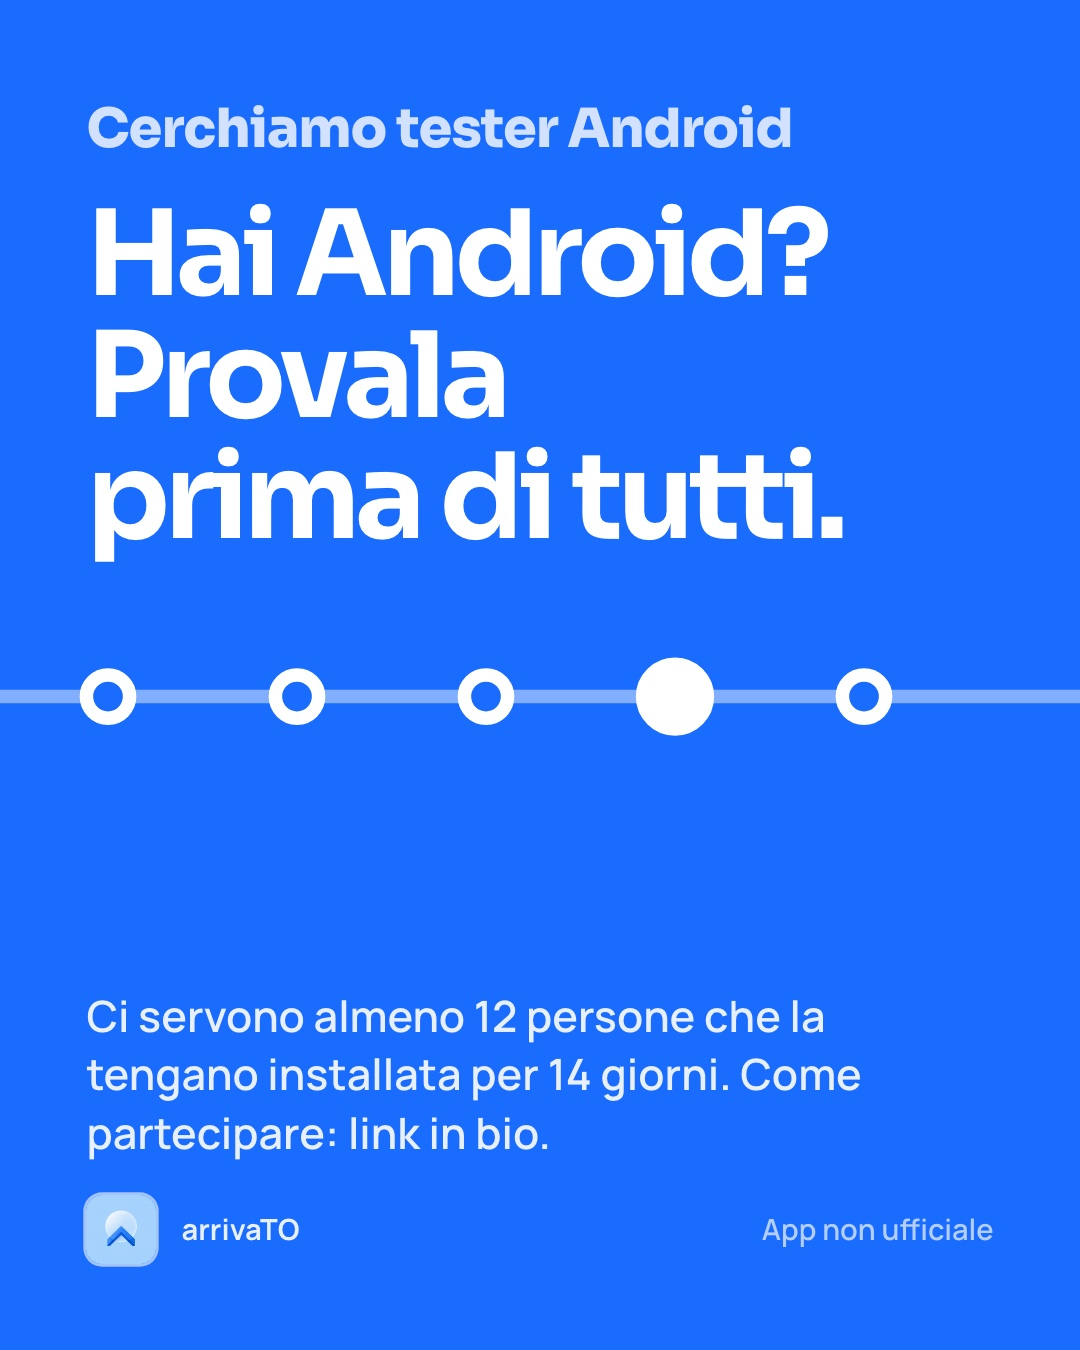
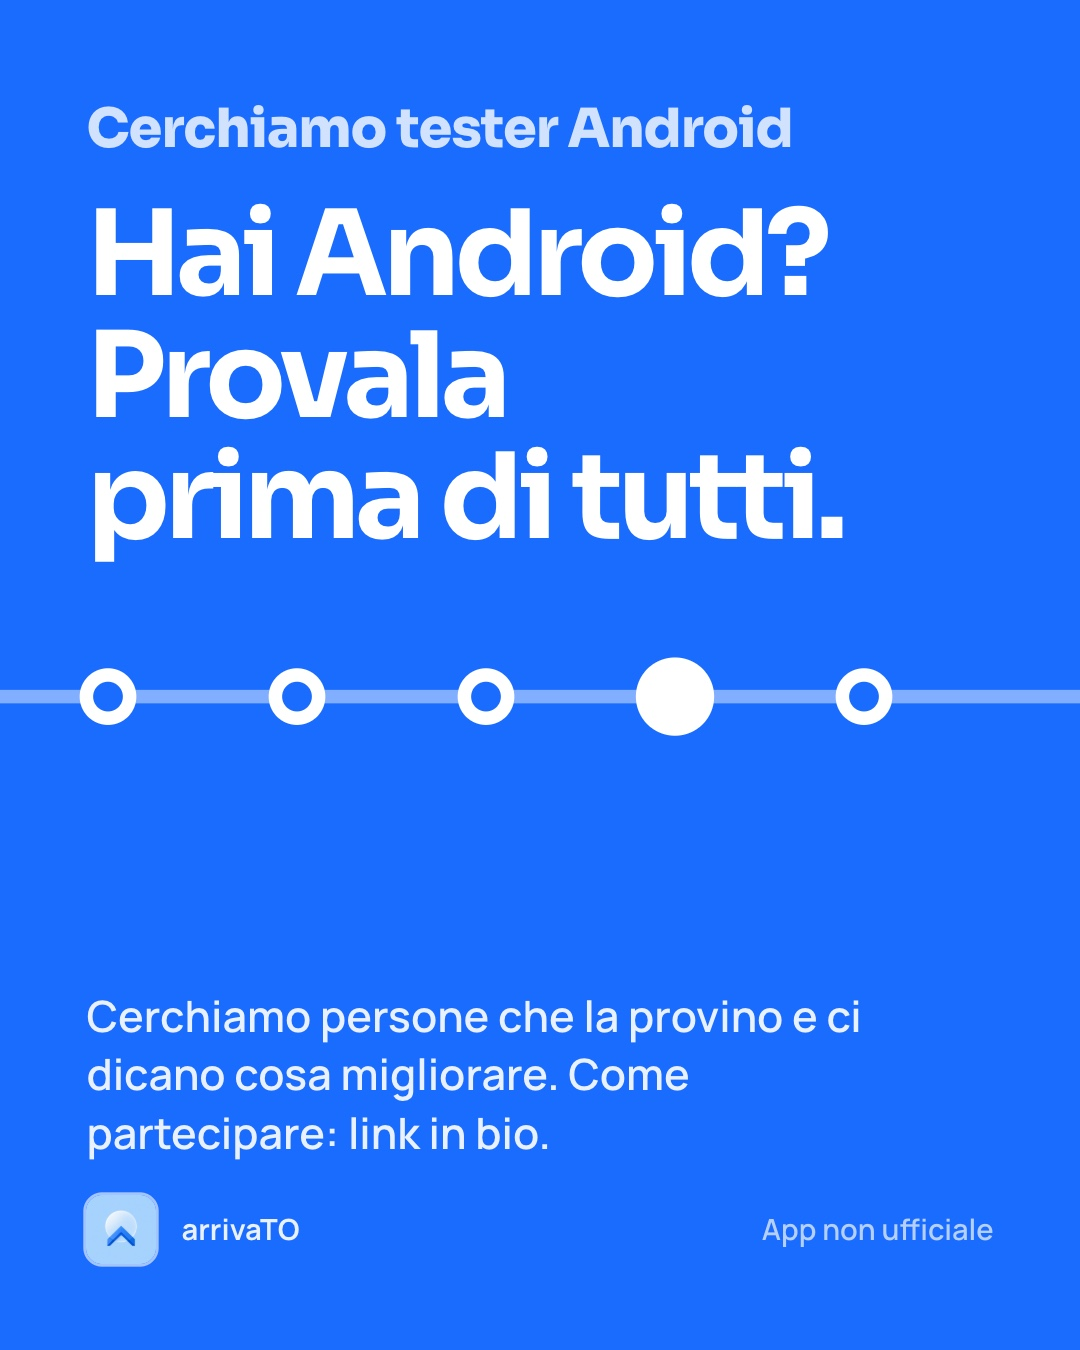
Android: cerchiamo tester senza indicare quanti, post 04 aggiornato
Tolti i riferimenti a 12 tester e 14 giorni da sito, post e storia 04.
Post 18/12 approvato (testo senza numeri). Pulito alt text del post ATP.

Changed region(s): [[0.0611, 0.7156, 0.7944, 0.84]]

diff --git a/android.html b/android.html
@@ -4,7 +4,7 @@
   <meta charset="utf-8">
   <meta name="viewport" content="width=device-width, initial-scale=1">
   <title>arrivaTO per Android – Cerchiamo tester</title>
-  <meta name="description" content="arrivaTO per Android è in test su Google Play: cerchiamo persone che la provino per 14 giorni. Gratis, senza pubblicità, senza account.">
+  <meta name="description" content="arrivaTO per Android è in test su Google Play: cerchiamo persone che la provino. Gratis, senza pubblicità, senza account.">
   <link rel="canonical" href="https://flbanca.github.io/arrivato-app/android.html">
   <link rel="icon" href="icon.png">
   <link rel="apple-touch-icon" href="apple-touch-icon.png">
@@ -61,11 +61,11 @@
     <section class="card" id="play">
       <span class="tag">Cerchiamo tester</span>
       <h2 style="margin-top:0">Diventa tester su Google Play</h2>
-      <p>arrivaTO su Android non è ancora pubblica su Google Play. Per pubblicarla, Google chiede che almeno <strong>12 persone</strong> la provino per <strong>14 giorni di fila</strong>. Se usi Android, ci dai una mano?</p>
+      <p>arrivaTO su Android non è ancora pubblica su Google Play. Prima di pubblicarla la stiamo provando con un gruppo di tester. Se usi Android e prendi bus o tram a Torino, ci dai una mano?</p>
       <ol class="steps">
         <li>Scrivi a <a href="mailto:hello@flbanca.it?subject=Tester%20Android%20arrivaTO&amp;body=Ciao%2C%20vorrei%20provare%20arrivaTO%20su%20Android.%20La%20mia%20email%20Google%20%28Gmail%29%20%C3%A8%3A%20">hello@flbanca.it</a> con l'indirizzo Gmail che usi sul telefono.</li>
         <li>Ti mandiamo un link di invito: apre Google Play <strong>solo se sei nella lista tester</strong>. Non è la scheda pubblica dell’app.</li>
-        <li>Tienila installata per almeno <strong>14 giorni</strong> e usala quando prendi il bus o il tram. Se qualcosa non va, scrivici.</li>
+        <li>Tienila installata e usala quando prendi il bus o il tram. Se qualcosa non va, scrivici.</li>
       </ol>
       <p class="meta">Usiamo la tua email solo per aggiungerti all'elenco dei tester su Google Play. Puoi chiedere di essere rimosso quando vuoi. La versione del test Play è più aggiornata dell’APK su questa pagina.</p>
     </section>

diff --git a/index.html b/index.html
@@ -684,7 +684,7 @@
           </details>
           <details>
             <summary>C’è anche per Android?</summary>
-            <p>Non ancora: è in test su Google Play e cerchiamo persone che la provino per 14 giorni. Come partecipare lo trovi nella <a href="android.html">pagina Android</a>.</p>
+            <p>Non ancora: è in test su Google Play e cerchiamo persone che la provino. Come partecipare lo trovi nella <a href="android.html">pagina Android</a>.</p>
           </details>
           <details>
             <summary>Posso comprare i biglietti?</summary>
